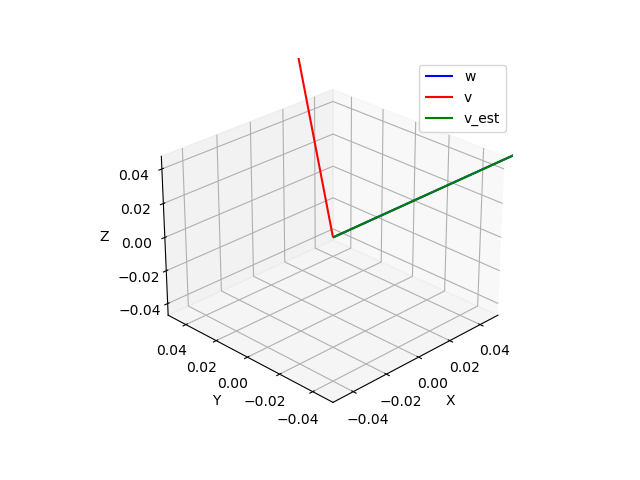
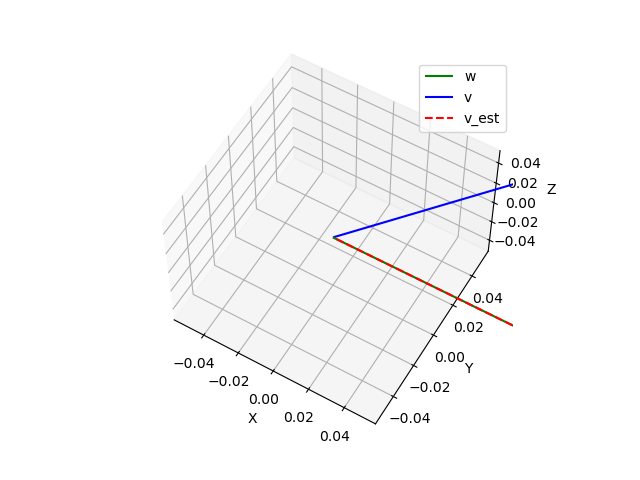
Change vector in plot

diff --git a/script/qmethod.py b/script/qmethod.py
@@ -36,11 +36,11 @@ def estimate_quaternion(w, v, P):
 
     return np.array([-q_[0], -q_[1], -q_[2], q_[3]])
 
-def plot_vectors(ax, origin, vectors, colors, labels):
+def plot_vectors(ax, origin, vectors, colors, labels, linestyle = "solid"):
     for i in range(vectors.shape[1]):
         ax.quiver(origin[0], origin[1], origin[2],
                   vectors[0, i], vectors[1, i], vectors[2, i],
-                  color=colors[i], label=labels[i] if i == 0 else "")
+                  color=colors[i], linestyle = linestyle, label=labels[i] if i == 0 else "")
 
 def test_estimate_quaternion():
     r0 = Rot.from_euler('zyx', [50, 0, 0], degrees=True)
@@ -56,11 +56,11 @@ def test_estimate_quaternion():
     fig = plt.figure()
     ax = fig.add_subplot(111, projection='3d')
 
-    plot_vectors(ax, [0, 0, 0], w, ['b'], ['w'])
-    plot_vectors(ax, [0, 0, 0], v, ['r'], ['v'])
+    plot_vectors(ax, [0, 0, 0], w, ['g'], ['w'])
+    plot_vectors(ax, [0, 0, 0], v, ['b'], ['v'])
 
     v_est = np.dot(r1.as_matrix(), w)
-    plot_vectors(ax, [0, 0, 0], v_est, ['g'], ['v_est'])
+    plot_vectors(ax, [0, 0, 0], v_est, ['r'], ['v_est'], 'dashed')
 
     ax.legend()
     ax.set_xlabel('X')